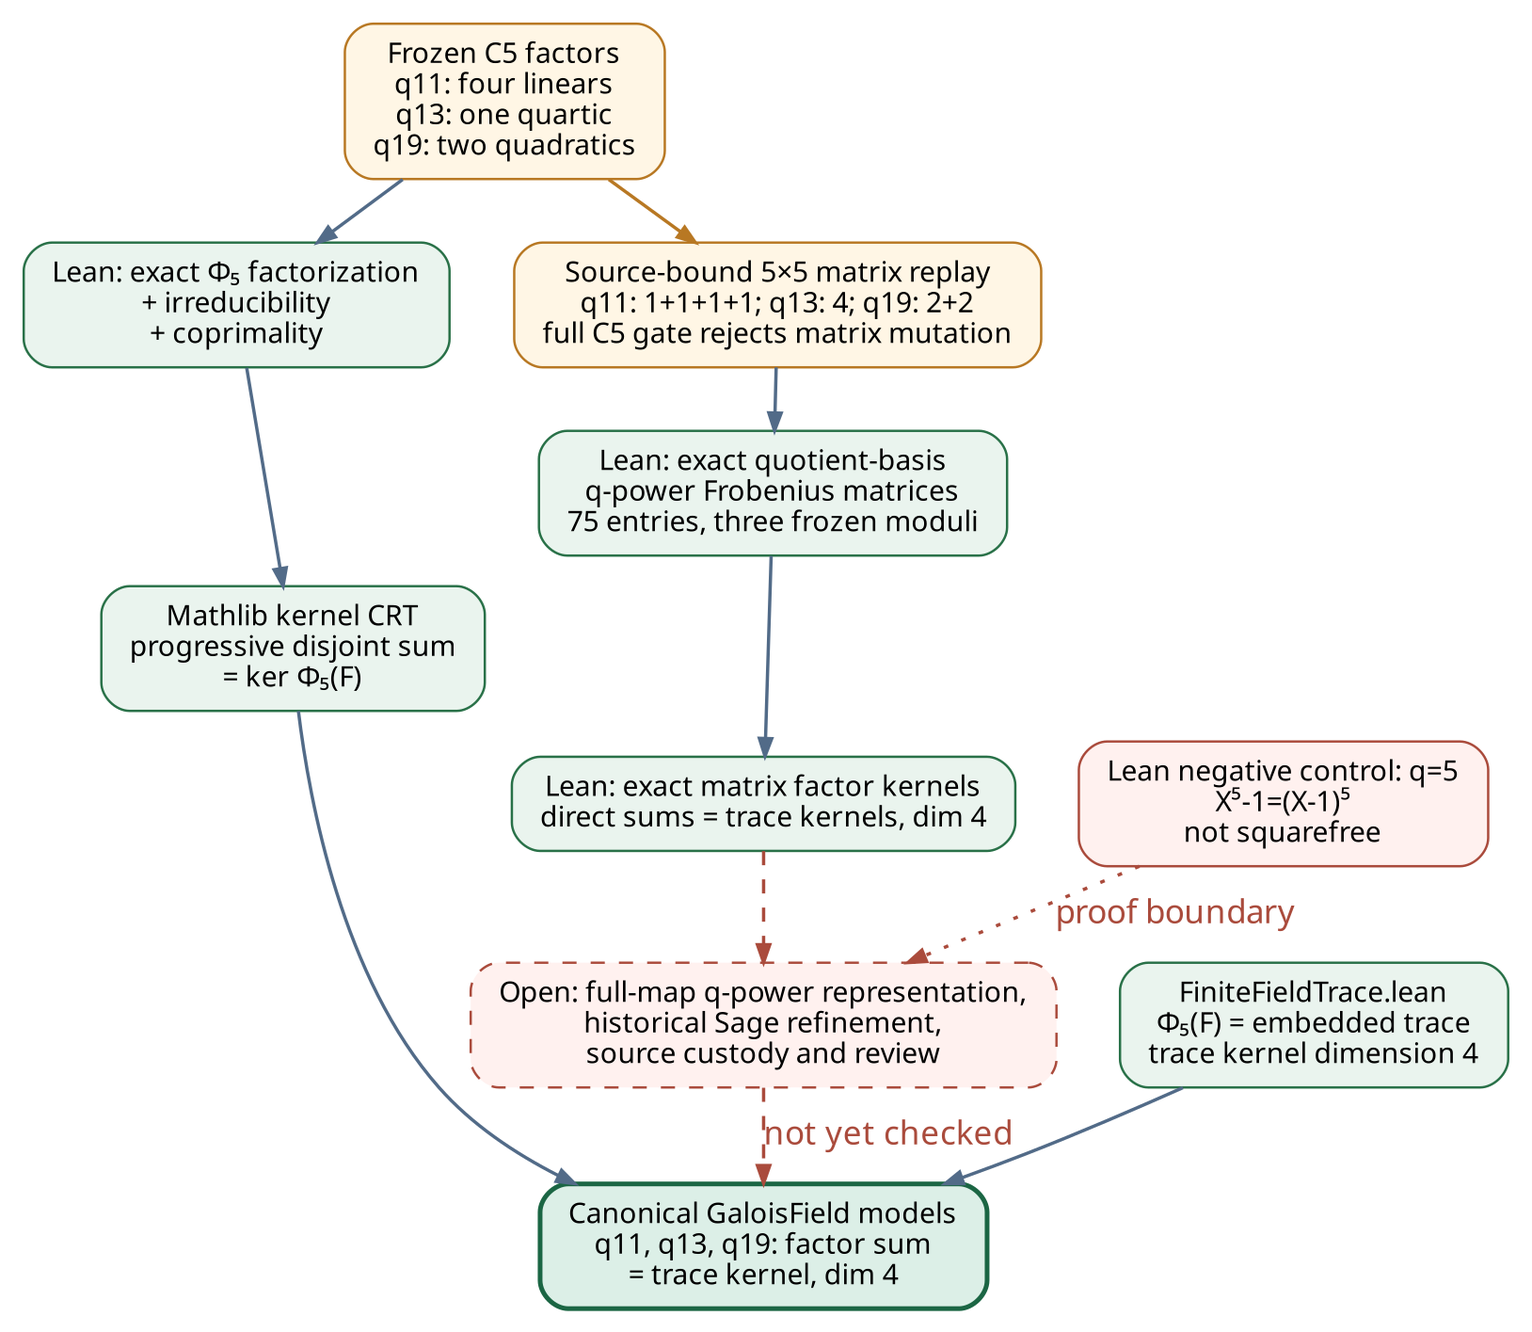
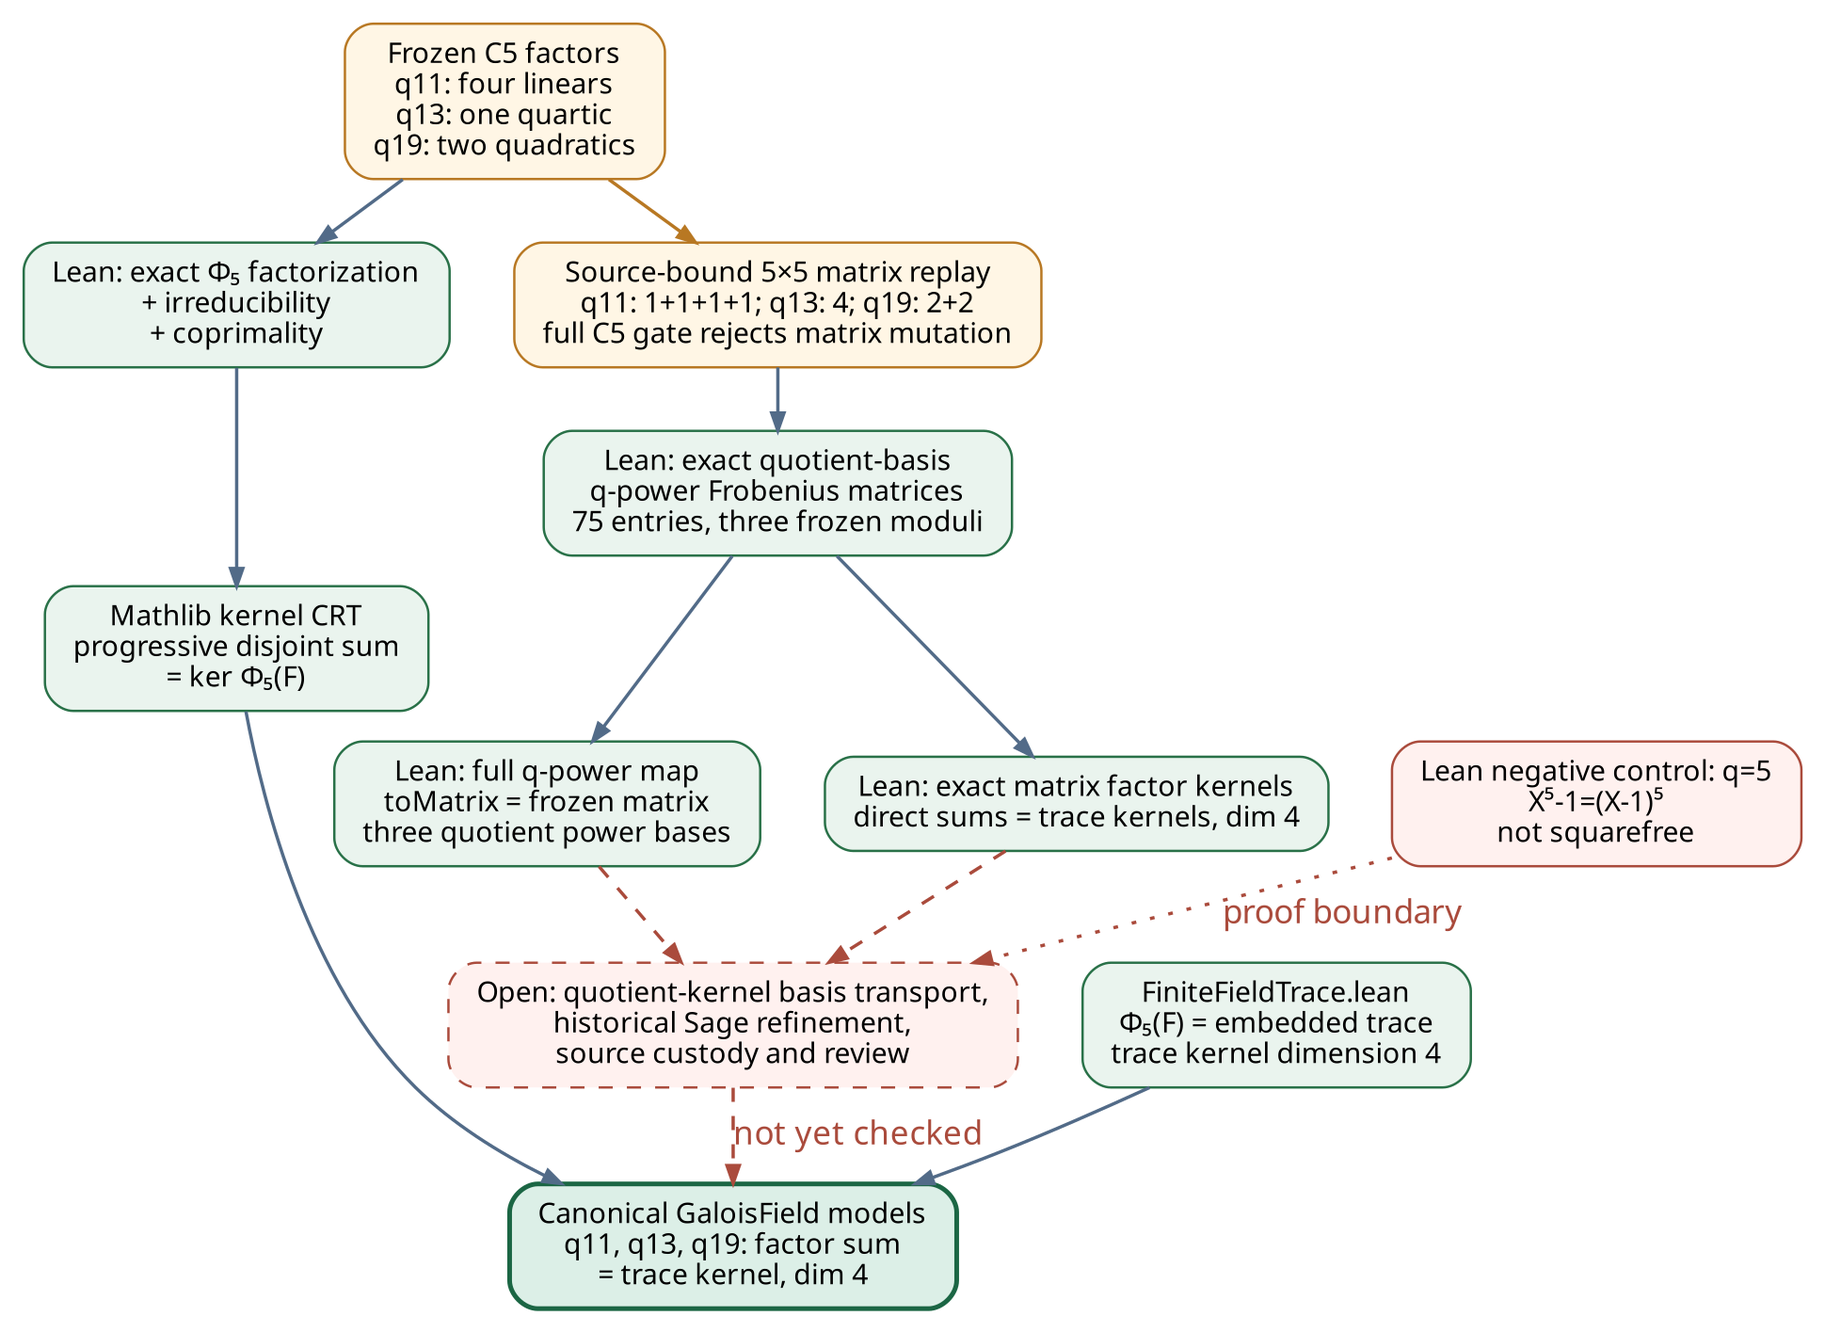
Track full Frobenius map proof and remaining C5 transport

diff --git a/docs/reports/2026-10-22-frob-c5-factor-kernels/report.tex b/docs/reports/2026-10-22-frob-c5-factor-kernels/report.tex
@@ -54,13 +54,14 @@ directness and trace equality. The same gates reject a mutated matrix in all
 three cells; the byte-exact receipt is included. A separate Lean certificate
 now proves all 75 q-power matrix entries in the frozen quotient bases. A second
 certificate proves direct factor-kernel sums and trace dimension four for the
-exact recorded matrices.
+exact recorded matrices. A third Lean certificate identifies the full
+q-power quotient endomorphisms with those frozen matrices in their power bases.
 
 \textbf{Negative control.} A separate Lean theorem proves
 $X^5-1=(X-1)^5$ and non-squarefreeness over $\mathbf F_5$. This checks the
 coprimality boundary; $q=5$ was not an archived core cell.
 
-\textbf{Boundary.} A full-map q-power representation lemma, historical Sage
+\textbf{Boundary.} Explicit quotient-kernel basis transport, historical Sage
 code-path refinement, original source custody and independent review remain
 open. The historical run
 control, C8 and experiment success gate therefore remain open. No measured

diff --git a/problems/frob-c5-factor-kernel-and-model-bridge.md b/problems/frob-c5-factor-kernel-and-model-bridge.md
@@ -2,8 +2,8 @@
 
 - **Status:** `open`
 - **Kind:** historical code-to-model bridge and independent semantic review
-- **Affected work:** [EXP-FROB-91ee9c C5 specification](../experiments/EXP-FROB-91ee9c/specification.yaml), [frozen run](../experiments/EXP-FROB-91ee9c/runs/TASK-20260914-7119f2/manifest.yaml), [factor-kernel formal targets](../formal/targets/frob-c5-factors-q11.yaml), [quotient-matrix target](../formal/targets/frob-c5-quotient-matrices.yaml), [matrix-kernel target](../formal/targets/frob-c5-quotient-matrix-kernels.yaml), [characteristic-five control](../formal/targets/frob-c5-characteristic-five-control.yaml)
-- **Next action owner:** Coordinator to assign independent semantic/code review and the full-map q-power/Sage refinement check
+- **Affected work:** [EXP-FROB-91ee9c C5 specification](../experiments/EXP-FROB-91ee9c/specification.yaml), [frozen run](../experiments/EXP-FROB-91ee9c/runs/TASK-20260914-7119f2/manifest.yaml), [factor-kernel formal targets](../formal/targets/frob-c5-factors-q11.yaml), [quotient-matrix target](../formal/targets/frob-c5-quotient-matrices.yaml), [matrix-kernel target](../formal/targets/frob-c5-quotient-matrix-kernels.yaml), [full-map target](../formal/targets/frob-c5-quotient-frobenius-map.yaml), [characteristic-five control](../formal/targets/frob-c5-characteristic-five-control.yaml)
+- **Next action owner:** Coordinator to assign independent semantic/code review and the quotient-kernel basis-transport/Sage refinement check
 - **Last updated:** 2026-10-22
 
 ## Problem
@@ -13,9 +13,10 @@ canonical degree-five finite fields. A separate Lean certificate now proves
 that q-power on each frozen polynomial quotient basis has the exact 5×5
 matrix reconstructed from the archived outputs. The exact recorded matrices
 now have Lean-checked C5 factor-kernel sums and trace-kernel dimension four.
-The remaining gap is a checked full-map q-power representation lemma and a
-link to historical Sage execution, with original source custody and independent
-semantic review. The frozen C5 control cannot yet be promoted to a
+The full q-power endomorphism has the certified matrix in each quotient power
+basis. An explicit Lean transport of the matrix-kernel theorem to those
+endomorphisms, a link to historical Sage execution, original source custody,
+and independent semantic review remain open. The frozen C5 control cannot yet be promoted to a
 proof-backed historical run verdict. C8 and the experiment success gate
 remain separate.
 
@@ -24,8 +25,9 @@ remain separate.
 - **Observed:** The frozen [run](../experiments/EXP-FROB-91ee9c/runs/TASK-20260914-7119f2/manifest.yaml) reports C5 equality and dimension four in all three core cells. The independent [object replay](../docs/reports/2026-10-22-frob-provenance-audit/core-object-replay.json) reconstructs the factor-kernel dimensions and point classifications using archived plain-Python checker primitives. The newer [source-bound matrix replay](../docs/reports/2026-10-22-frob-c5-factor-kernels/c5-matrix-replay.json) independently reconstructs the exact 5×5 Frobenius matrices from the three frozen moduli, checks factor kernels, directness, trace equality, fixed-line exclusion and a matrix mutation, and compares every archived C5 flag. It is executable evidence, not a Lean refinement proof of the historical code.
 - **Proved:** [OrderFive.lean](../formal/CryptoResearch/FrobTrace/OrderFive.lean) gives the abstract trace-kernel identity. [FiniteFieldTrace.lean](../formal/CryptoResearch/FrobTrace/FiniteFieldTrace.lean) identifies the five-term q-power Frobenius sum with finite-field trace and proves its kernel has dimension four. [FactorKernel.lean](../formal/CryptoResearch/FrobTrace/FactorKernel.lean) proves the exact q=11 four-linear, q=13 one-quartic and q=19 two-quadratic nontrivial factorizations of `X^5−1`, irreducibility, coprimality where needed, and direct-sum equality with the trace kernel of dimension four. The [factor proof report](../docs/reports/2026-10-22-frob-c5-factor-kernels/REPORT.md) records its exact-source receipts. [QuotientMatrices.lean](../formal/CryptoResearch/FrobTrace/QuotientMatrices.lean) checks 12 exact polynomial divisions and all 75 entries of the frozen q-power matrices in the three archived quotient bases; its [report](../docs/reports/2026-10-22-frob-c5-quotient-matrices/REPORT.md) and exact-source receipt bind source commit `c685c2951ac3a972a0fc07154609a37540187441`. Independent semantic review remains pending.
 - **Proved on exact matrices:** [QuotientMatrixKernels.lean](../formal/CryptoResearch/FrobTrace/QuotientMatrixKernels.lean) applies those factor polynomials to the exact matrices, proves the direct sums and trace-kernel dimensions, and records an [exact-source receipt](../docs/reports/2026-10-22-frob-c5-quotient-matrix-kernels/proof-verification.json) and [report](../docs/reports/2026-10-22-frob-c5-quotient-matrix-kernels/REPORT.md). Independent semantic review remains pending.
+- **Proved full map:** [QuotientFrobeniusMap.lean](../formal/CryptoResearch/FrobTrace/QuotientFrobeniusMap.lean) identifies the full base-field-linear q-power endomorphism of each archived quotient with the exact frozen matrix in its power basis. Its [report](../docs/reports/2026-10-22-frob-c5-full-map/REPORT.md) and [exact-source receipt](../docs/reports/2026-10-22-frob-c5-full-map/proof-verification.json) bind source commit `1993b13e4a245b5e92ac8748198d2e9d0013e885`. Independent semantic review remains pending.
 - **Proved negative control:** [CharacteristicFive.lean](../formal/CryptoResearch/FrobTrace/CharacteristicFive.lean) proves `X^5−1=(X−1)^5`, the repeated quartic, and non-squarefreeness over `ZMod 5`. Its [source-bound report](../docs/reports/2026-10-22-frob-c5-characteristic-five-control/REPORT.md) records the passed Lean build and axiom audit. This is a proof-boundary control, not an archived q=5 run cell.
-- **Missing capability:** The matrix theorem proves basis coordinates in the quotient algebra; a full-map q-power linearity/representation lemma is not yet checked. The modulus is not proved irreducible in Lean or identified with the canonical `GaloisField`. The source-bound replay checks modulus irreducibility and C5 dimensions executably. Historical Sage implementation refinement, original source custody and independent code/semantic review remain open.
+- **Missing capability:** An explicit Lean theorem still needs to transport the matrix factor-kernel result to the q-power endomorphism through its proved power-basis matrix. The moduli are not proved irreducible in Lean or identified with the canonical `GaloisField`; the source-bound replay checks irreducibility and C5 dimensions executably. Historical Sage implementation refinement, original source custody and independent code/semantic review remain open.
 - **What this evidence does not establish:** It does not certify all operations in the historical driver, the run's C8 control, the experiment success gate, a performance advantage or deployed-size ECDLP behavior.
 
 ## What would unblock it
@@ -34,21 +36,23 @@ remain separate.
 - [x] Prove the three exact quotient-basis q-power matrices in Lean. The [matrix target](../formal/targets/frob-c5-quotient-matrices.yaml) and [receipt](../docs/reports/2026-10-22-frob-c5-quotient-matrices/proof-verification.json) cover every entry and bind the theorem to the source-bound replay receipt. This is a mathematical quotient-algebra certificate, not a proof of the historical executable.
 - [x] Prove the direct factor-kernel sums and trace-kernel dimension four for the exact recorded matrices in Lean. The [matrix-kernel target](../formal/targets/frob-c5-quotient-matrix-kernels.yaml) and [receipt](../docs/reports/2026-10-22-frob-c5-quotient-matrix-kernels/proof-verification.json) bind this result to source commit `458c91dbdcb8b0116173014e421da852333e4e1a`.
 - [x] Verify the characteristic-five negative control in Lean: `X^5−1` is not squarefree over `ZMod 5`. This discharges only the proof-boundary control.
-- [ ] Prove full-map q-power linearity/representation on the archived quotient basis, or a checked isomorphism to the canonical fields. Check the historical implementation's field and matrix operations against that model and original source custody.
+- [x] Prove the full q-power endomorphism is base-field linear and has the exact frozen matrix in each archived quotient power basis. The [full-map target](../formal/targets/frob-c5-quotient-frobenius-map.yaml) and [receipt](../docs/reports/2026-10-22-frob-c5-full-map/proof-verification.json) bind the source and standard-axiom audit.
+- [ ] Transport the exact matrix factor-kernel statement to the quotient q-power endomorphism in Lean. Check the historical implementation's field and matrix operations against that model and original source custody.
 - [ ] Obtain independent formal semantic and code review before promoting the frozen C5 verdict.
 
 The completed items cover canonical-field decomposition, exact quotient-basis
-matrix entries and factor-kernel arithmetic on those matrices. The remaining
-items connect the matrix to the full q-power map and historical implementation. Even after they pass, C8 and
+matrix entries, factor-kernel arithmetic on those matrices, and the full
+q-power map's matrix. The remaining items transport the kernel theorem and
+connect the model to the historical implementation. Even after they pass, C8 and
 the other frozen success gates require their own evidence.
 
 ## Next discriminating step
 
-- **Action or proof obligation:** Prove the q-power endomorphism on each quotient is base-field linear and has the certified matrix in the frozen basis, or construct a checked isomorphism to the canonical fields. Then review the archived Sage field and kernel paths against that model, with original source custody.
+- **Action or proof obligation:** Transport the exact matrix C5 factor-kernel and trace-dimension theorem through the checked power-basis representation to the full quotient q-power endomorphism. Then review the archived Sage field and kernel paths against that model, with original source custody.
 - **Inputs and controls:** Use the frozen `q,n,g` strings and raw output hashes, the committed factor targets, and an explicit characteristic-five countercontrol where squarefreeness fails. Reject any byte mismatch or unproved quotient-field assumption.
 - **Execution limits and stop condition:** Proof/checker work may continue without a scientific trial. Preserve the frozen run. Stop any proposed C5 promotion if the model bridge, custody or independent review cannot be checked.
 - **Outcomes and next actions:** A checked model bridge and review advance C5 to historical-control adjudication; a counterexample requires a scoped run correction; an unproved bridge leaves the control unestablished.
-- **Recheck trigger:** A committed Lean full-map q-power representation theorem or field isomorphism, plus independent code/semantic review and original source custody.
+- **Recheck trigger:** A committed Lean quotient-kernel basis-transport theorem, plus independent code/semantic review and original source custody.
 
 ## Resolution and history
 
@@ -57,3 +61,4 @@ the other frozen success gates require their own evidence.
 - 2026-10-22: The source-bound Lean quotient-basis certificate proved all 75 q-power matrix entries for the three frozen moduli. The quotient-matrix C5 kernel link, historical Sage refinement, source custody and independent review remain open.
 - 2026-10-22: Lean proved the exact recorded matrices' factor-kernel sums and trace-kernel dimensions. Full-map q-power representation, historical Sage refinement, source custody and independent review remain open.
 - 2026-10-22: The characteristic-five control proved failure of squarefreeness at q=5. This does not alter the q=11/13/19 historical-control boundary.
+- 2026-10-22: Lean identified the full q-power endomorphism's matrix in each quotient power basis. Explicit kernel transport, historical Sage refinement, source custody and independent review remain open.

diff --git a/problems/README.md b/problems/README.md
@@ -14,7 +14,7 @@ Keep resolved and superseded records in the index.
 | --- | --- | --- | --- |
 | [Full ledger validation has unsuppressed integrity errors](full-ledger-validation-errors.md) | open | A clean all-corpus ledger-integrity claim: 162 unsuppressed errors in 49 paths on audited main; 142 in 40 paths after source-bound corrections, a non-execution category, and five refused-draft corrections; FROB execution-source custody also remains unbound | Source-backed additive corrections, FROB source custody or a new source-bound replay, and a current-head validator pass without baseline growth |
 | [FROB C8 independent recheck is incomplete](frob-c8-independent-recheck-incomplete.md) | open | Six object arms and three first-curve C2 lists replayed; three accepted and two rejected C4 curve orders certified; historical C3/C4 sample identities remain absent | Bind C3/C4 samples or replay them from a source-bound run, complete remaining C8 checks and Validator review |
-| [FROB C5 factor-kernel and archived-field bridge](frob-c5-factor-kernel-and-model-bridge.md) | open | Canonical-field factor kernels, all 75 quotient q-power matrix entries, exact matrices' kernel sums/dimensions, and characteristic-five negative control proved in Lean | Full-map q-power representation, historical Sage refinement/source custody, and independent semantic/code review |
+| [FROB C5 factor-kernel and archived-field bridge](frob-c5-factor-kernel-and-model-bridge.md) | open | Canonical-field factor kernels, exact matrix and full q-power map, matrix kernel sums/dimensions, and characteristic-five control proved in Lean | Explicit quotient-kernel basis transport, historical Sage refinement/source custody, and independent semantic/code review |
 | [Pages workflow disabled and live dashboard snapshot stale](pages-workflow-disabled-live-snapshot-stale.md) | open | The public dashboard showed an October 11 snapshot at the October 21 check | Owner decision on workflow state, authorized hosted deploy, and public metadata/payload readback |
 | [Dashboard cannot parse 24 archived source files](dashboard-unparseable-archive.md) | open | Nine originals have separate hash-matched copies; fifteen remain raw-only, and none is semantically reviewed here | Preserve originals, review corrections against source intent, provide additive routes for the fifteen, and recheck the static reader |
 | [Published runbook claim lacks origin-tracking visibility](runbook-published-claim-origin-tracking-visibility.md) | resolved (reviewed source) | Original tracking gap and F1/P2 cleanup defect are preserved; corrective source4489fb399186 meets the scoped software gates | Fresh independent holds review validates native epoch fencing; PR #2446 final publication/CI/merge remain pending |

diff --git a/docs/reports/2026-10-22-frob-c5-factor-kernels/REPORT.md b/docs/reports/2026-10-22-frob-c5-factor-kernels/REPORT.md
@@ -95,6 +95,9 @@ connect this matrix action to the canonical-field factor-kernel theorem. A
 [second Lean certificate](../2026-10-22-frob-c5-quotient-matrix-kernels/REPORT.md)
 applies the factor polynomials directly to the exact recorded matrices and
 proves their kernel sums, directness and trace-kernel dimension four.
+A [full-map certificate](../2026-10-22-frob-c5-full-map/REPORT.md) now proves
+that the complete q-power endomorphism of each quotient has that frozen
+matrix in its power basis.
 
 ## Boundary and next check
 
@@ -103,11 +106,12 @@ proves `X^5−1=(X−1)^5` and non-squarefreeness over `ZMod 5`. This checks
 the coprimality boundary; it is not a fourth archived core cell.
 
 The factor-kernel theorem uses canonical `GaloisField q 5` values. The quotient
-certificate proves q-power images of the frozen basis monomials, and the
-matrix-kernel certificate proves C5 for the resulting exact matrices. A
-full-map q-power linearity/representation lemma and checked historical Sage
-refinement remain open. Source custody and independent review are required
-before the historical C5 control can be called proof-backed. The
+certificate proves q-power basis images, the full-map certificate identifies
+the q-power linear map's matrix, and the matrix-kernel certificate proves C5
+for that exact matrix. An explicit Lean transport of the kernel theorem to
+the quotient endomorphism and checked historical Sage refinement remain open.
+Source custody and independent review are required before the historical C5
+control can be called proof-backed. The
 [open problem](../../../problems/frob-c5-factor-kernel-and-model-bridge.md)
 tracks those checks. C8 and the full experiment success gate remain open.
 

diff --git a/docs/reports/2026-10-22-frob-c5-quotient-matrices/REPORT.md b/docs/reports/2026-10-22-frob-c5-quotient-matrices/REPORT.md
@@ -72,7 +72,9 @@ through the historical Sage driver implements that operation, recover original
 source custody, or identify every run input byte with this model. A separate
 [exact matrix-kernel certificate](../2026-10-22-frob-c5-quotient-matrix-kernels/REPORT.md)
 proves the factor-kernel sums and trace dimensions of these recorded matrices;
-the full-map q-power linearity/representation and Sage refinement remain open.
+a [full-map certificate](../2026-10-22-frob-c5-full-map/REPORT.md) identifies
+the q-power endomorphism's matrix in each quotient power basis. Explicit
+kernel transport and Sage refinement remain open.
 The [canonical finite-field factor-kernel proof](../2026-10-22-frob-c5-factor-kernels/REPORT.md)
 and characteristic-five boundary control have separate scopes. The
 [open bridge problem](../../../problems/frob-c5-factor-kernel-and-model-bridge.md)

diff --git a/docs/reports/2026-10-22-frob-c5-quotient-matrix-kernels/REPORT.md b/docs/reports/2026-10-22-frob-c5-quotient-matrix-kernels/REPORT.md
@@ -46,8 +46,10 @@ the build log do not affect these declarations.
 
 This is a Lean result about the three linear maps defined by the exact
 recorded matrices. The preceding certificate proves that their columns equal
-the q-power images of the quotient-basis monomials. A checked full-map
-linearity/representation lemma, historical Sage implementation refinement,
+the q-power images of the quotient-basis monomials, and a
+[full-map certificate](../2026-10-22-frob-c5-full-map/REPORT.md) proves the
+q-power endomorphism has that exact matrix. Explicit Lean transport of the
+kernel theorem to the quotient endomorphism, historical Sage refinement,
 original run source custody, and independent code/semantic review are still
 needed before calling the frozen C5 run control proof-backed. The
 [open problem](../../../problems/frob-c5-factor-kernel-and-model-bridge.md)

diff --git a/docs/reports/2026-10-22-frob-c5-characteristic-five-control/REPORT.md b/docs/reports/2026-10-22-frob-c5-characteristic-five-control/REPORT.md
@@ -55,5 +55,5 @@ boundary. The C5 factor-proof diagram is checked separately in merged PR #2475.
 No run value, performance graph, or dashboard row changed because this task
 made no measurement. Separate Lean certificates now check the archived
 quotient-basis matrix entries and exact matrix factor kernels. The next proof
-obligation is a full-map q-power representation lemma and historical Sage
+obligation is explicit quotient-kernel basis transport and historical Sage
 refinement, with source custody and independent semantic/code review.
